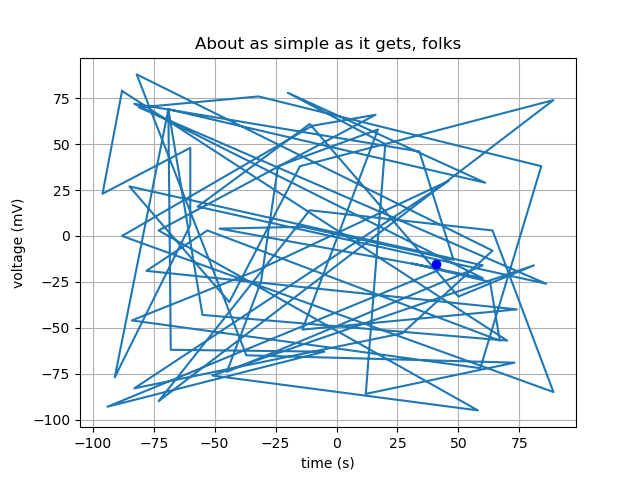
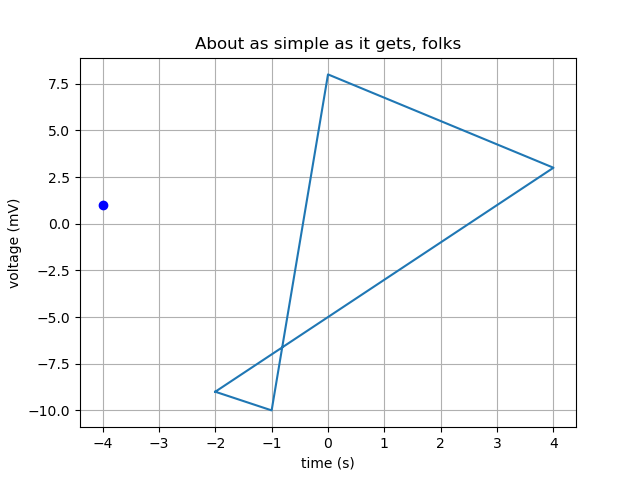
added functionality to determine the closest point to an object if the point is not inside the object

diff --git a/fencing.py b/fencing.py
@@ -4,6 +4,31 @@ import numpy as np
 import random
 import math
 
+# This program creates an object using the corners by applying it to the linear equation ax+by+c=0
+# Then, using the min/max values for x and y aswell as the direction, it is able to determine which side
+# a point in space is from the line. If the point is to the left of the line and within the bounds of
+# y, a counter will be incremented. If this counter is odd, then we know the point is within the object
+# In order to prevent a rare corner case, I had to calculate the number of lines to the right of the
+# point as well. If both of those values are odd, then the program will return true meaning the point is
+# inside the object. If those values don't match then we ran into the corner case and will return false,
+# if they are both even or zero then the point is outside of the object.
+
+# if the point is outside of the object, this program is also able to determine how far away the
+# closest boundary of the object is to the point. This is done by converting the ax+by+c=0 into
+# the form of y=mx+b. From there, the program can convert that into an equation perpendicular to
+# the object boundary that will pass through the point. This is the shortest distance to that line.
+# After that, it is as simple as finding the closest line to determine how far away the object is.
+# (further notes about how this is done will be in the program)
+
+# I also set up a testing environment that will display a graph of the object aswell as the point
+# this is to aid in debuging and can visually show the program working.
+# The output is whether the point is inside or outside the object, if it is outside then the program
+# will print the coordinates of intersection as well as the distance to the intersection so we can know
+# where and how far the closest point is
+
+# The line class defines a line in space, each object will be made up of at least 3 of these
+# It contains the start point and end point (p1 and p2) as well as the values for the linear equation,
+# the min/max of x and y, and the direction of the line
 class Line:
     def __init__(self, p1, p2, a, b, c, xMin, xMax, yMin, yMax, direction):
         self.p1 = p1
@@ -23,6 +48,7 @@ class Line:
         '\nax + by + c=', (self.a*home[0] + self.b*home[1] + self.c),
         '\ndirection:', self.direction, '\n')
 
+# This will simply display the object on a graph with the point
 def display_plot(x, y, home):
     fig, ax = plt.subplots()
     ax.plot(x, y)
@@ -35,14 +61,15 @@ def display_plot(x, y, home):
     fig.savefig("test.png")
     plt.show()
 
+# Home is the point the user is testing, a custom object can be defined by entering the x and y values of each point
 def custom_test():
     points=[]
     x = []
     y = []
 
-    home = [0,0]
-    x = [-1,5,5,-1]
-    y = [5,5,-5,-5]
+    home = [2,1]
+    x = [4,4]
+    y = [0,-2]
 
     for i in range(len(x)):
         points.append([x[i], y[i]])
@@ -50,28 +77,8 @@ def custom_test():
     x.append(x[0])
     y.append(y[0])
     N = len(x)
-    obj = create_object(x, y, N, home)
-    print(isInside(obj, N, home))
-    display_plot(x, y, home)
-    return obj
-
-def auto_test():
-    points=[]
-    x = []
-    y = []
-    N = random.randint(3,100)
-    home = [random.randint(-100, 100),random.randint(-100, 100)]
-   
-    for i in range(N):
-        x.append(random.randint(-100, 100))
-        y.append(random.randint(-100, 100))
-        points.append([x[i], y[i]])
-    points.append([x[0], y[0]])
-    x.append(x[0])
-    y.append(y[0])
-    obj = create_object(x, y, N, home)
-    #print(isInside(obj, N, home))
-    if(isInside(obj, N, home)):
+    obj = create_object(x, y)
+    if(is_inside(obj, home)):
         print('Inside')
     else:
         print('Outside')
@@ -79,7 +86,40 @@ def auto_test():
     display_plot(x, y, home)
     return obj
 
-def create_object(x, y, N, home):
+# this will create a randomly generated object. The size can be expanded by changing the value of size
+# this will determine the scale of the plane the program is operating in.
+# The first value of N is the minimum number of points used to create the object, the second value is the maximum
+# make sure N is at least three otherwise the program may not be able to make an object
+def auto_test():
+    size = 10
+    points=[]
+    x = []
+    y = []
+    N = random.randint(3,5)
+    home = [random.randint(-size, size),random.randint(-size, size)]
+   
+    for i in range(N):
+        x.append(random.randint(-size, size))
+        y.append(random.randint(-size, size))
+        points.append([x[i], y[i]])
+    points.append([x[0], y[0]])
+    x.append(x[0])
+    y.append(y[0])
+    obj = create_object(x, y)
+    # print(is_inside(obj, home))
+    if(is_inside(obj, home)):
+        print('Inside')
+    else:
+        print('Outside')
+        distance_to_object(obj, home)
+    display_plot(x, y, home)
+    return obj
+
+# create_object will take the location of the points defined in the test functions
+# It will group each index into a single point and pass sequential points to the create_line
+# function that will define the values that make up the line between those two points
+# upon completion, create_object will return an object that is made up of a list of lines
+def create_object(x, y):
     obj = []
     p1 = []
     p2 = []
@@ -90,10 +130,18 @@ def create_object(x, y, N, home):
         obj.append(create_line(p1, p2))
     return obj
 
+# prints out all the values for the lines that define the object
+# used for debugging
 def print_object(obj, home):
     for i in range(len(obj)):
         obj[i].print_line(home)
 
+# create_line works by taking two points and defining the values that will make up the line between them
+# in the form ax+by+c=0. a=(y1-y2), b=(x2-x1), and c=(x1*y2 + x2*y1).
+# the min/max values are simply the minimum and maximum values of x and y that are within the bounds of the line
+# without them the line would run out to infinity in both directions
+# finally, it will return all of these as a line object and make a call to get the direction of the line
+# based off the two points
 def create_line(p1, p2):
     a = p1[1] - p2[1]
     b = p2[0] - p1[0]
@@ -106,6 +154,20 @@ def create_line(p1, p2):
     yMin = min(p1[1], p2[1])
 
     return Line(p1, p2, a, b, c, xMin, xMax, yMin, yMax, get_direction(p1, p2))
+
+# get_direction will use the values in p1 and p2 to determine the direction the line is going
+# the actual direction is irrelevent but it needs to be uniform in order to define the corners of the
+# object correctly. Otherwise, if the point is parallel with a corner, the program will not be able to
+# determine if the point is inside or outside the object.
+# the return values are as follows:
+
+#    0 - horizontal line
+#    1 - diagonal left to right and lower to higher
+#    2 - diagonal left to right and higher to lower
+#    3 - diagonal right to left and lower to higher
+#    4 - diagonal right to left and higher to lower
+#    5 - vertical line running down
+#    6 - vertical line running up
 
 def get_direction(p1, p2):
     if p1[0] < p2[0]:
@@ -128,14 +190,28 @@ def get_direction(p1, p2):
         if p1[1] < p2[1]:
             return 6
     
-
-def isInside(obj, n, home):
+# is_inside can determine if the point home is within the object.
+# the values of tmp1 and tmp2 are the counters for determining how many lines the point is
+# to the left of and right of respectively
+# The process of determining left and right is the same, just the inequalities are flipped
+# Left side:
+# loop through all the lines defined in obj
+# determine if the x coordinate for the point is less than the maximum value of x for the current line
+# use the direction to determine which inequality to use, if the line is running lower to higher the value
+# of ax+by+c needs to be greater than or equal to 0 to determine if the point is to the left,
+# if the line runs higher to lower then the inequality flips to less than or equal to
+# if either of this is true then tmp1 is incremented
+# 
+# The right side is determined the same
+# if both tmp1 and tmp2 are odd, is_inside returns true indicating the point is inside the object
+# if they are unequal, zero or even then the point is outside the object
+def is_inside(obj, home):
     tmp1 = 0
     tmp2 = 0
 
-    #print_object(obj, home)
     x = home[0]
     y = home[1]
+    # left side
     for i in range(len(obj)):
         a = obj[i].a
         b = obj[i].b
@@ -144,14 +220,13 @@ def isInside(obj, n, home):
             if (obj[i].direction == 1 or obj[i].direction == 3 or obj[i].direction == 6):
                 if(y <= obj[i].yMax and y > obj[i].yMin):
                     if((a * x + b * y + c) >= 0):
-                        #obj[i].print_line(home)
                         tmp1 = tmp1 + 1
             elif (obj[i].direction == 2 or obj[i].direction == 4 or obj[i].direction == 5):
                 if(y < obj[i].yMax and y >= obj[i].yMin):
                     if((a * x + b * y + c) <= 0):
                         tmp1 = tmp1 + 1
-                        #obj[i].print_line(home)
 
+    # right side
     for i in range(len(obj)):
         a = obj[i].a
         b = obj[i].b
@@ -160,14 +235,13 @@ def isInside(obj, n, home):
             if (obj[i].direction == 1 or obj[i].direction == 3 or obj[i].direction == 6):               
                 if(y <= obj[i].yMax and y > obj[i].yMin):
                     if((a * x + b * y + c) <= 0):
-                        #obj[i].print_line(home)
                         tmp2 = tmp2 + 1
             elif (obj[i].direction == 2 or obj[i].direction == 4 or obj[i].direction == 5):
                 if(y < obj[i].yMax and y >= obj[i].yMin):
                     if((a * x + b * y + c) >= 0):
                         tmp2 = tmp2 + 1
-                        #obj[i].print_line(home)
 
+    # determine if tmp1 and tmp2 are odd
     tmp1 = tmp1 % 2
     tmp2 = tmp2 % 2
 
@@ -176,21 +250,89 @@ def isInside(obj, n, home):
     else:
         return False
 
+# distance_to_object will loop through all of the lines that define the object and
+# get the closest point of that line to the point
+# finally it will send the information for the closest point
 def distance_to_object(obj, point):
     tmp = []
+    minI = 0
     for i in range(len(obj)):
-        tmp.append(distance(obj[i], point))
-    print(tmp)
-    print(tmp.index(min(tmp)),':', min(tmp))
-    obj[tmp.index(min(tmp))].print_line(point)
-
-def distance(line, point):
-    #return (abs((line.p2[0] - line.p1[0]) * (line.p1[1] - point[1]) - (line.p1[0] - point[0]) * (line.p2[1] - line.p1[1]))/(math.sqrt(((line.p2[0] - line.p1[0])**2) + ((line.p2[1] - line.p1[1]) ** 2))))
+        tmp.append(line_distance(obj[i], point))
+        if(tmp[i][2] < tmp[minI][2]):
+            minI = i
+    print('closest point: \n\tx:', tmp[minI][0], 'y:', tmp[minI][1], 'distance:', tmp[minI][2])
+    print('\nclosest point to all lines:')
+    for i in range(len(tmp)):
+        print('\tp1:', obj[i].p1, '\tp2:', obj[i].p2, '\tx:', tmp[i][0], '\ty:', tmp[i][1], '\tdistance:', tmp[i][2], '\n')
+    return tmp[minI]
     
-    return (abs((line.a * point[0]) + (line.b * point[1]) + line.c)) / (math.sqrt((line.a ** 2) + (line.b ** 2)))
+# A line is defined by the equation ax+by+c=0. This can be changed into y=mx+b by
+# using the form y=(a/-b)*x + (c/-b). A perpendicular line can be created using y=(b/a)*x + p.
+# p is defined as y-(b/a)*x and then applying the x and y coordinates of the point to it.
+# The x value of the point of intersection can be calculated by solving (a/-b)*x + (c/-b) = (b/a)*x + p for x.
+# When solved for x this takes the form of x=(p + (c/b)) / ((a^2 + b^2) / (-b * a)) 
+# From there, the y value can be calculated by plugging x into any of these y=mx+b functions.
+# if the values of x and y that were calculated are within the bounds of the line then line_distance
+# will pass the values of x and y along with the coordinates stored in point to the point_distance function
+# in order to determine how far away the point is 
+# 
+# There are some corner cases here that need to be solved. If the lines are vertical or horizontal
+# there would be a divide by zero error using the above method. Fortunately, the closest point of a vertical and
+# horizontal line is easy to calculate. The closest point of a horizontal line is directly above or below the point
+# so the x value is that of the point and the y value is that of the line
+# a vertical line is the y value of the point and the x value of the line
+# 
+# One problem with the top method of finding the closest point is the line the equations define will stretch out to
+# infinity in either direction. There could be a point on the line closer to point that is beyond the max/min values that
+# define the line. If this happens then the closest point would be one of the ends of the line so line_distance will send each
+# end of the line as well as point to the point_distance function.
+#
+# finally, line_distance will return the closest coordinates in the line to the point. If the corners are the same distance then this will
+# just send the info for the first corner
+def line_distance(line, point):
+    p1 = line.p1
+    p2 = line.p2
+    p3 = point
+
+    a = line.a
+    b = line.b
+    c = line.c
+    # calculate the values of x and y that are closest to point as long as the line isn't vertical or horizontal
+    if(a != 0 and b != 0):
+        p = p3[1] - (b/a)*p3[0]
+        x = (p + (c/b))/(((a**2) + (b**2))/(-b*a))
+        y = (b/a)*x + p
+    
+    # vertical and horizontal lines
+    else:
+        if(a == 0):     # horizontal line
+            x = point[0]
+            y = line.p1[1]
+        if(b == 0):     # vertical line
+            x = line.p1[0]
+            y = point[1]
+
+    # if the closest point is inside the bounds of x and y, calculate the distance from point to the line and return the
+    # coordinates along with the distance
+    if(y <= line.yMax and y >= line.yMin):
+        if(x <= line.xMax and x >= line.xMin):
+            return [x, y, point_distance([x,y], point)]
+
+    # If the nearest x and y are outside the bounds of the line, then calculate the distance to each end and return the closest 
+    p1dist = point_distance(line.p1, point)
+    p2dist = point_distance(line.p2, point)
+
+    if(p1dist < p2dist):
+        return [line.p1[0], line.p1[1], p1dist]
+    elif(p1dist > p2dist):
+        return [line.p2[0], line.p2[1], p2dist]
+    elif(p1dist == p2dist):
+        return [line.p1[0], line.p1[1], p1dist]
+
+# point_distance calculates the distance between two points using the pythagorean theorem
+def point_distance(p1, p2):
+    return math.sqrt(((p2[0] - p1[0]) ** 2) + ((p2[1] - p1[1]) ** 2))
 
 
-#custom_test()
+# custom_test()
 auto_test()
-#closest_line(auto_test(), [0,0])
-#distance_to_object(custom_test(), [0,0])
